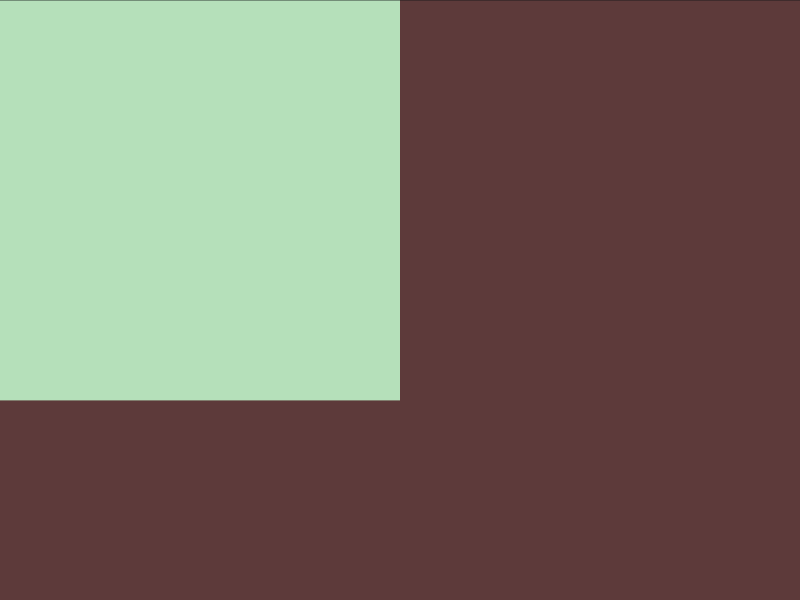
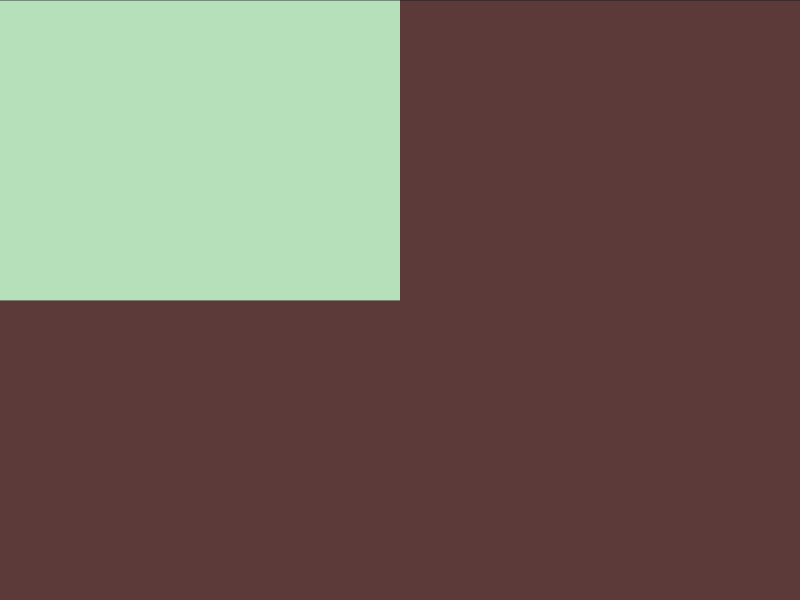
Score: 693.95 (100.00% match) - CSSHub

Changed region(s): [[0.0, 0.48, 0.5, 0.69]]

diff --git a/challenges/1-simply-square/solution.html b/challenges/1-simply-square/solution.html
@@ -6,15 +6,7 @@
   }
   div {
     width: 200px;
-    height: 200px;
+    height: 150px;
     background: #b5e0ba;
   }
 </style>
-
-<!-- OBJECTIVE -->
-<!-- Write HTML/CSS in this editor and replicate the given target image in the least code possible. What you write here, renders as it is -->
-
-<!-- SCORING -->
-<!-- The score is calculated based on the number of characters you use (this comment included :P) and how close you replicate the image. Read the FAQS (https://cssbattle.dev/faqs) for more info. -->
-
-<!-- IMPORTANT: remove the comments before submitting -->